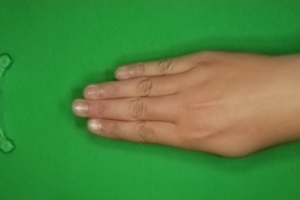
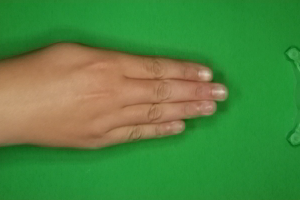
Added rotation and scissors recognizer
- when an image is not alligned correctly, it will be rotated
- scissors are recognized by the number of edges from top to down

diff --git a/segmentation.py b/segmentation.py
@@ -13,7 +13,7 @@ def segment_hand_with_background(picture):
     binary_image = change_binary_image_colors(binary_image)
 
     kernel = np.ones((5, 5), np.uint8)
-    return morphology_filter(binary_image, kernel)
+    return rotate_while_not_aligned(morphology_filter(binary_image, kernel))
 
 
 def segment_hand_with_skin(picture):
@@ -27,7 +27,7 @@ def segment_hand_with_skin(picture):
 
     binary_image = to_binary(masked)
     kernel = np.ones((5, 5), np.uint8)
-    return morphology_filter(binary_image, kernel)
+    return rotate_while_not_aligned(morphology_filter(binary_image, kernel))
 
 
 def to_binary(img):
@@ -54,3 +54,24 @@ def change_binary_image_colors(binary_image):
             else:
                 binary_image[y, x] = 255
     return binary_image
+
+
+def rotate_while_not_aligned(segmented):
+    last_column = 0
+    h = segmented.shape[0]
+    w = segmented.shape[1]
+
+    for y in range(0, h):
+        if segmented[y, w - 1] == 255:
+            last_column += 1
+
+    while last_column < 50:
+        last_column = 0
+        segmented = np.rot90(segmented)
+        h = segmented.shape[0]
+        w = segmented.shape[1]
+        cv2.imshow("rotated", segmented)
+        for y in range(0, h):
+            if segmented[y, w - 1] == 255:
+                last_column += 1
+    return segmented

diff --git a/gui.py b/gui.py
@@ -2,6 +2,7 @@ import cv2
 from PIL import Image, ImageTk
 from appJar import gui
 from segmentation import segment_hand_with_background
+import recognize as rec
 import skeleton as sk
 
 
@@ -17,6 +18,11 @@ def submit(btn):
         img = cv2.imread(file_path)
         segmented = segment_hand_with_background(img)
         cv2.imshow('teszt', segmented)
+        app.reloadImageData("pic", opencv_image_to_appjar_image(img), fmt="PhotoImage")
+
+        app.setLabel("result", rec.recognize(segmented))
+
+
         skeleton = sk.skeleton_of_shape(segmented)
         #cv2.imshow('vaz', skeleton)
         bgr = cv2.cvtColor(segmented, cv2.COLOR_GRAY2BGR)
@@ -34,8 +40,6 @@ def submit(btn):
         bgr = cv2.merge((b, g, r))
         cv2.imshow('csucs', bgr)
 
-        app.reloadImageData("pic", opencv_image_to_appjar_image(img), fmt="PhotoImage")
-
 
 app = gui("RPS Recognizer")
 app.setStretch("none")
@@ -51,6 +55,6 @@ im = Image.fromarray(image)
 imtk = ImageTk.PhotoImage(im)
 
 app.addImageData("pic", imtk, fmt="PhotoImage")
-
+app.addLabel("result", "fa")
 
 app.go()

diff --git a/recognize.py b/recognize.py
@@ -1,0 +1,28 @@
+import cv2
+import numpy as np
+
+np.set_printoptions(threshold=np.inf)
+
+
+def recognize(segmented):
+
+    edges = cv2.Canny(segmented, 100, 200)
+    cv2.imshow("edges", edges)
+
+    h = edges.shape[0]
+    w = edges.shape[1]
+    edges_array = np.zeros(shape=(w,))
+
+    for x in range(0, w):
+        for y in range(0, h):
+            if edges[y, x] == 255:
+                edges_array[x] = edges_array[x] + 1
+    fours = 0
+    for x in range(0, w):
+        if edges_array[x] == 4:
+            fours += 1
+
+    if fours > 50:
+        return "scissors"
+    else:
+        return "i dunno yet"
